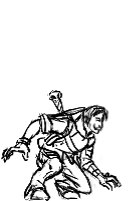
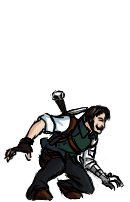
Коммит с красивой анимацией и серой массой инвентаря при нажатии I

Changed region(s): [[0.0, 0.4478, 0.9538, 1.0]]

diff --git a/brains.py b/brains.py
@@ -140,10 +140,10 @@ class Random_Attack(Task):
         return COMPLETE
 
 
-class Stay(Task):
+class Stand(Task):
 
     def __call__(self, dt):
-        self.master.stay()
+        self.master.stand()
         return COMPLETE
 
 
@@ -157,6 +157,7 @@ class Turn(Task):
 class Controlling(Task):
 
     bind = consts['bindings']
+    pressed = False
 
     def __init__(self, master, priority):
         Task.__init__(self, master, priority)
@@ -173,7 +174,7 @@ class Controlling(Task):
             if self.key[self.bind['jump']] and self.master.on_ground:
                 self.master.jump()
             if hor_dir == 0:
-                self.master.stay()
+                self.master.stand()
             else:
                 self.master.walk(hor_dir)
 
@@ -213,13 +214,12 @@ class Controlling(Task):
                 item.get_up()
 
         inv = self.key[self.bind['inventory']]
-        pressed = False
-        if inv and not pressed:
-            self.master.inventory.open()
-            pressed = True
-        elif inv and pressed:
-            self.master.inventory.close()
-            pressed = False
+        if inv and not self.pressed:
+            self.master.open()
+            self.pressed = True
+        elif inv and self.pressed:
+            self.master.close()
+            self.pressed = False
         else:
             pass
         #cx, cy = self.master.position
@@ -312,7 +312,7 @@ class Primitive_AI(Enemy_Brain):
         self.visible_hits_wd = []
 
         self.prev_move = 0
-        self.state = 'stay'
+        self.state = 'stand'
         self.eff_dst = self.master.hands[0].length * consts['effective_dst']
         
     def sensing(self):
@@ -332,7 +332,7 @@ class Primitive_AI(Enemy_Brain):
                 d = d/abs(d) if d != 0 else 0
                 if d != self.master.direction:
                     self.task_manager.push_task(Turn(self.master, 98))
-                if self.state is 'stay':
+                if self.state is 'stand':
                     self.state = 'approach'
                     self.task_manager.push_task(Walk(self.master, 1))
                 elif self.state is 'approach':
@@ -346,8 +346,8 @@ class Primitive_AI(Enemy_Brain):
                 break
         else:
             self.task_manager.clear_queue()
-            self.state = 'stay'
-            self.task_manager.push_task(Stay(self.master, 1))
+            self.state = 'stand'
+            self.task_manager.push_task(Stand(self.master, 1))
         for hit_wd in self.visible_hits_wd:
             hit, dst = hit_wd
             if self.is_enemy(hit):

diff --git a/inventory.py b/inventory.py
@@ -4,8 +4,11 @@ import cocos
 from cocos import layer
 
 
-class Inventory():
+class Inventory(layer.Layer):
     def __init__(self, helmet, first_weapon, second_weapon, master):
+        super(Inventory, self).__init__()
+        self.image = cocos.sprite.Sprite(pyglet.image.load('inventory.png'))
+        self.image.position = (350, 300)
         self.helmet = helmet
         self.first_weapon = first_weapon
         self.second_weapon = second_weapon
@@ -30,25 +33,13 @@ class Inventory():
                     break
 
     def open(self):
-        print self.first_weapon.image
-        print self.second_weapon.image
-
-    def close(self):
-        pass
-
-
-class InventoryLayer(layer.Layer):
-    def __init__(self):
-        super(InventoryLayer, self).__init__()
-        self.image = cocos.sprite.Sprite(pyglet.image.load('inventory.png'))
-        self.image.position = (350, 300)
-        self.weapon = cocos.sprite.Sprite(pyglet.image.load('sword.png'))
-        self.weapon.position = (350, 300)
-
-    def open(self):
+        self.first_weapon.position = (490, 330)
+        self.second_weapon.position = (190, 330)
         self.add(self.image)
-        self.add(self.weapon)
-
+        self.add(self.first_weapon)
+        self.add(self.second_weapon)
 
     def close(self):
         self.remove(self.image)
+        self.remove(self.first_weapon)
+        self.remove(self.second_weapon)

diff --git a/bodies.py b/bodies.py
@@ -138,8 +138,12 @@ class Body(object):
         self.master.destroy()
 
     def turn(self):
+        for animations in self.anim:
+            for i in range(len(self.anim[animations].frames)):
+                self.anim[animations].frames[i].image = \
+                    self.anim[animations].frames[i].image.get_texture().get_transform(flip_x=True)
         map(lambda x: x.turn(), self.body_parts)
-    
+
     def take_hit(self, hit):
 
         """
@@ -238,14 +242,14 @@ class Body(object):
 class Human(Body):
     
     anim = {'walk': consts['img']['human'],
-            'stay': consts['img']['human'],
+            'stand': consts['img']['human'],
             'jump': consts['img']['human'],
             'sit': consts['img']['human_sit']}
     parts_pos = {'walk': [(con.LEGS, (0, -77)), (con.CHEST, (0, 0)), (con.HEAD, (0, 57))],
-                 'stay': [(con.LEGS, (0, -77)), (con.CHEST, (0, 0)), (con.HEAD, (0, 57))],
+                 'stand': [(con.LEGS, (0, -77)), (con.CHEST, (0, 0)), (con.HEAD, (0, 57))],
                  'jump': [(con.LEGS, (0, -77)), (con.CHEST, (0, 0)), (con.HEAD, (0, 57))],
                  'sit': [(con.LEGS, (0, -77)), (con.CHEST, (0, 0)), (con.HEAD, (0, 17))]}
-    img = anim['stay']
+    img = anim['stand']
     base_speed = consts['params']['human']['speed']
 
     def __init__(self, master):

diff --git a/level.py b/level.py
@@ -19,7 +19,7 @@ import brains as br
 import actor as ac
 import obj_db as db
 import consts as con
-from inventory import InventoryLayer
+from inventory import Inventory
 
 consts = con.consts
 
@@ -120,9 +120,12 @@ class Level_Layer(layer.ScrollableLayer):
         #self.opponent.do(br.Primitive_AI())
         #self.opponent.do(br.Dummy())
         #self.hero.do(br.Controller())
-
+       # print self.hero.inventory.first_weapon
         self.hero.show_hitboxes()
+
         self.actors[0].show_hitboxes()
+        #self.hero.inventory.open()
+        #self.add(self.hero.inventory.image, z=2)
 
         #Run
         self.schedule(self.update)
@@ -247,14 +250,11 @@ def create_level(filename):
 
     scroller = layer.ScrollingManager()
     player_layer = Level_Layer(scripts, force, scroller)
-    inventory = InventoryLayer()
 
     scroller.add(back, z=-1)
     scroller.add(force, z=0)
     scroller.add(player_layer, z=1)
 
-    scene.add(inventory, z=2)
     scene.add(scroller, z=1)
-    #inventory.open()
-    #inventory.close()
+    scene.add(player_layer.hero.inventory, z=2)
     return scene

diff --git a/actor.py b/actor.py
@@ -57,7 +57,7 @@ class Actor(movable_object.Movable_Object):
         self.hands = []
         self.body = body(self)
         self.launcher = Launcher()
-        self.state = 'stay'
+        self.state = 'stand'
         self.inventory = Inventory(None, None, None, self)
         cshape = cm.AARectShape(eu.Vector2(0, 0), self.body.img.width/2, self.body.img.height/2)
         super(Actor, self).__init__(self.body.img, cshape)
@@ -88,6 +88,12 @@ class Actor(movable_object.Movable_Object):
 
     def put_item(self, item):
         self.inventory.put_item(item)
+
+    def open(self):
+        self.inventory.open()
+
+    def close(self):
+        self.inventory.close()
 
     def destroy(self):
         """
@@ -123,7 +129,7 @@ class Actor(movable_object.Movable_Object):
 
     @activity
     @animate
-    def stay(self):
+    def stand(self):
         """
         Do not move Actor
         """

diff --git a/consts.py b/consts.py
@@ -24,7 +24,7 @@ consts = {'window': {'width': 800,
                        'first_hand': mouse.LEFT,
                        'second_hand': mouse.RIGHT},
           'color': {'white': (255, 255, 255, 255)},
-          'img': {'human': pyglet.resource.image('stay.png'),
+          'img': {'human': pyglet.resource.image('stand.png'),
                   'human_sit': pyglet.resource.image('sit.png'),
                   'weapon': pyglet.resource.image('sword.png'),
                   'knife': pyglet.resource.image('knife.png'),
